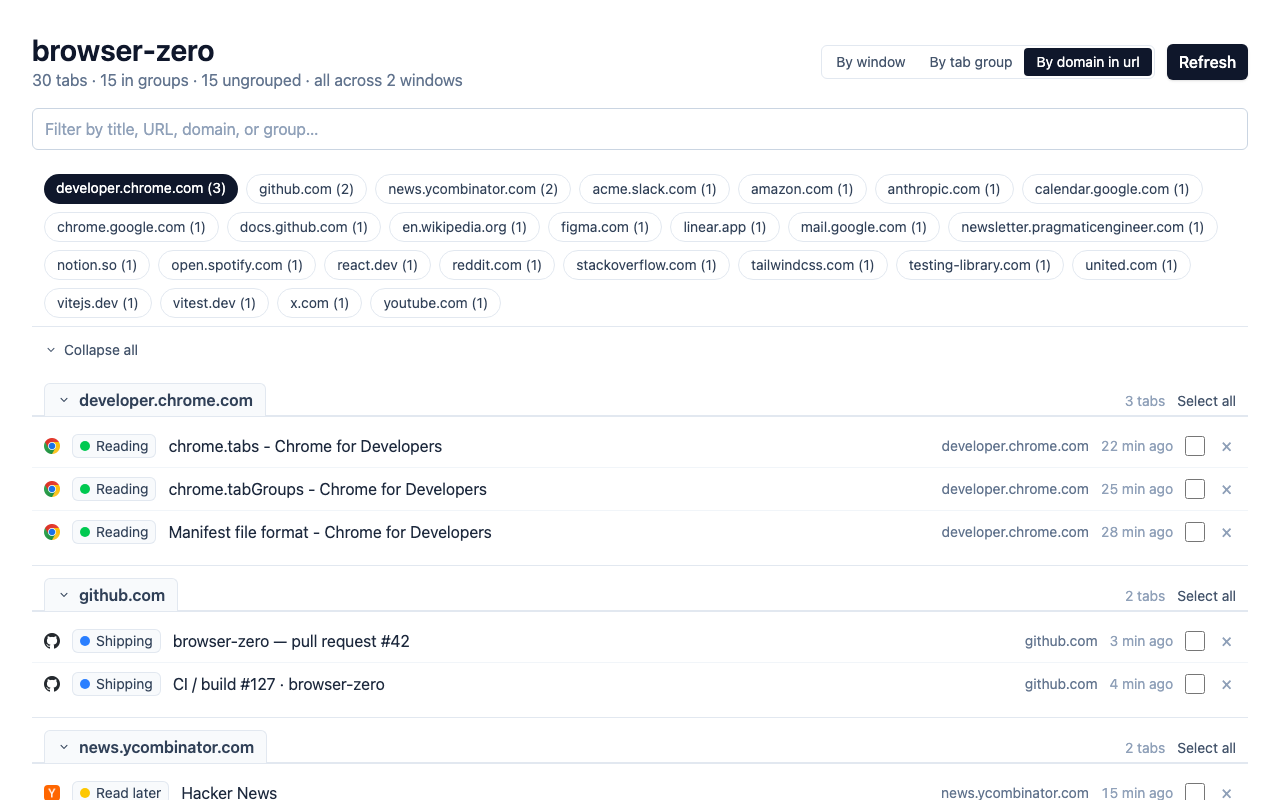
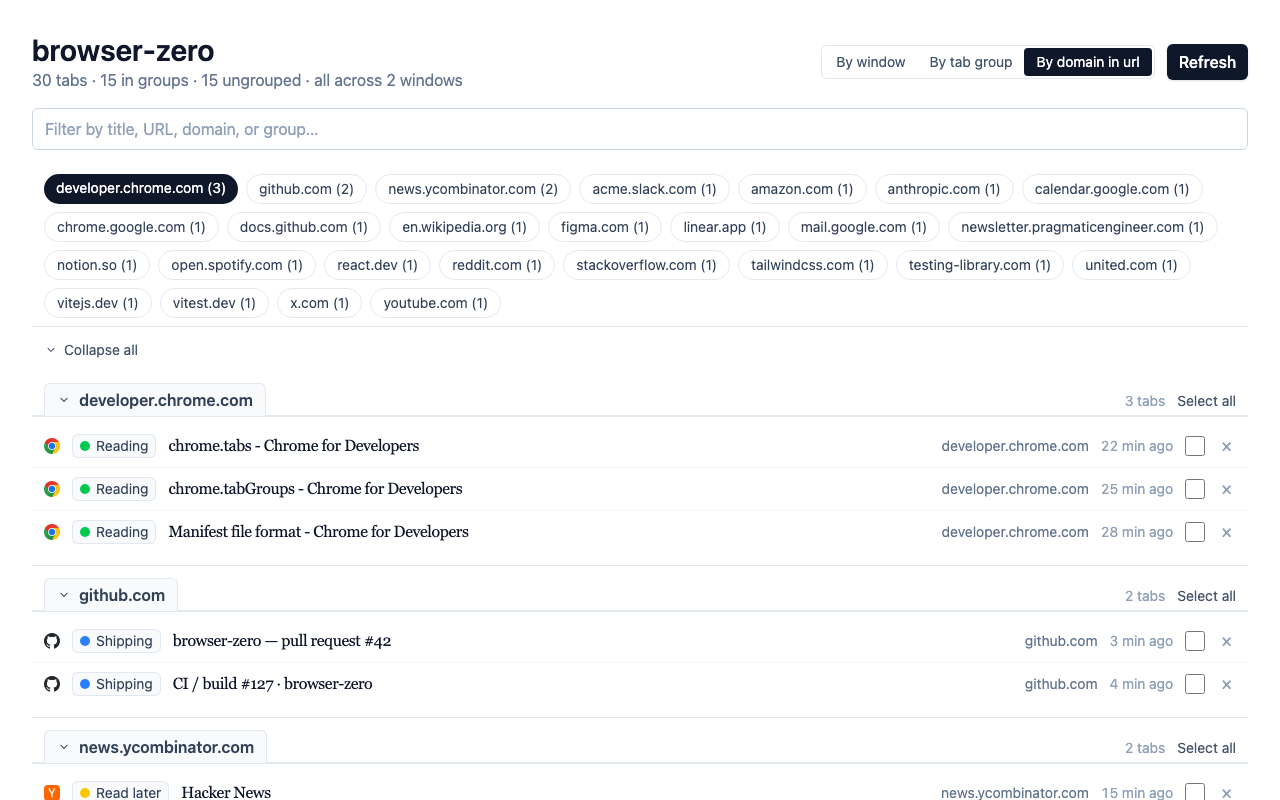
feat(dashboard): set tab page titles in a serif to differentiate from UI text
The dashboard's UI chrome (window labels, group chips, domain, time,
buttons) is all system-sans. Tab page titles, however, are *content* —
the names of pages the user opened. Setting them in font-serif +
tracking-tight + text-slate-900 reads them as document titles rather
than just more UI labels, and gives the page a 'library of pages'
feel without changing the layout or affordances.

- TabRow's title link: text-base text-slate-800 → font-serif text-base
  tracking-tight text-slate-900 (hover-underline preserved).
- Screenshots regenerated to capture the new typography.
- Release zip refreshed.

76/76 tests unchanged — title text content/role unaffected.

diff --git a/src/dashboard/components/TabRow.tsx b/src/dashboard/components/TabRow.tsx
@@ -52,7 +52,7 @@ export function TabRow({
           event.preventDefault();
           onFocus(tab.id, tab.windowId);
         }}
-        className="min-w-0 flex-1 truncate text-base text-slate-800 hover:underline"
+        className="min-w-0 flex-1 truncate font-serif text-base tracking-tight text-slate-900 hover:underline"
       >
         {tab.title}
       </a>
